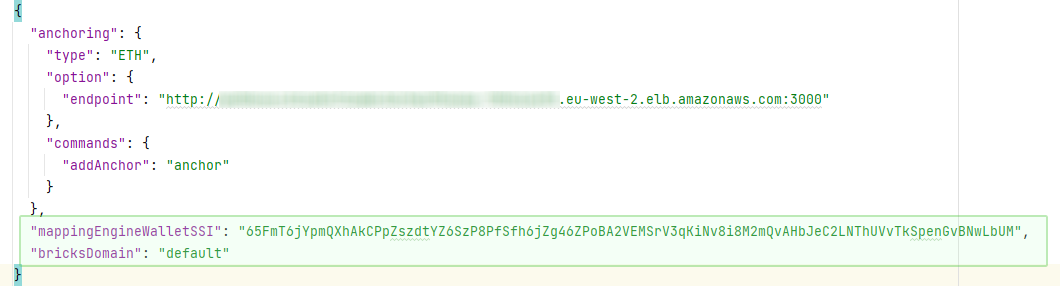
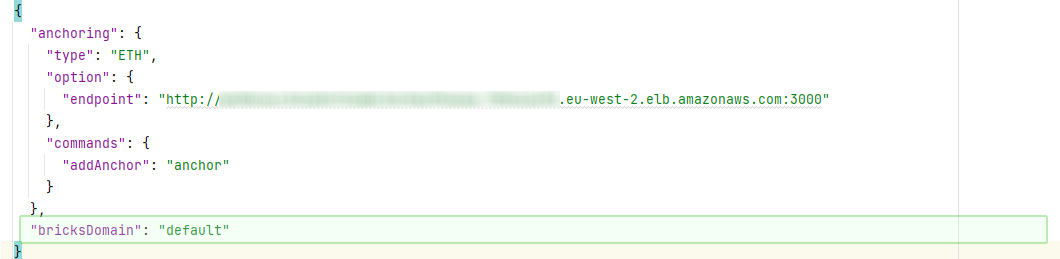
readme update regarding mapping Engine

Changed region(s): [[0.0, 0.7104, 0.9962, 0.9884], [0.0311, 0.0927, 0.7783, 0.4324], [0.0311, 0.4015, 0.2179, 0.6795]]

diff --git a/README.md b/README.md
@@ -190,17 +190,18 @@ The purpose of the EPI Mapping Engine is to process various types of messages re
 
 ### Configuring Domain for ApiHub Mapping Engine usage
 
-1. After finishing [Step 2: Setup credentials for Issuer and Holder](#step-2-setup-credentials-for-issuer-and-holder) from [Running section](#running) section please copy
-the desired wallet identifier from **User as Holder** page in wallet app.
-![alt text](wallet_identifier.png)
-2. Find the domain configuration in ```/apihub-root/external-volume/config/domains/<domainName.json>```
-and ```modify mappingEngineWalletSSI``` property with the wallet identifier and ```bricksDomain``` property with wallet subdomain value.   
+1. Find the domain configuration in ```/apihub-root/external-volume/config/domains/<domainName.json>```
+and modify or add the ```bricksDomain``` property with wallet subdomain value.   
 ![alt text](domain_config.png)
 3. Restart the server. 
-Now the ApiHub Mapping Engine is configured for processing messages from external sources through ```/mappingEngine/:domainName"``` endpoint via the PUT HTTP verb.
+Now the ApiHub Mapping Engine is configured for processing messages from external sources through ```/mappingEngine/:domainName"``` endpoint via the **PUT** HTTP verb.
 
 ### Testing ApiHub Mapping Engine
 In order to test the mapping engine functionality it can be used any API testing tools.
+
+Make a request like this ``` PUT http://localhost:8080/mappingEngine/<domainName> ```
+
+Set header **token** on the request with the value of the WalletSSI copied from the Holder page after the Issuer-Holder credentials workflow completed.
 
 Please note that the content should be on the request body as a raw string containing the JSON message.
 JSON messages examples could be downloaded from the import section page in the wallet app. 
